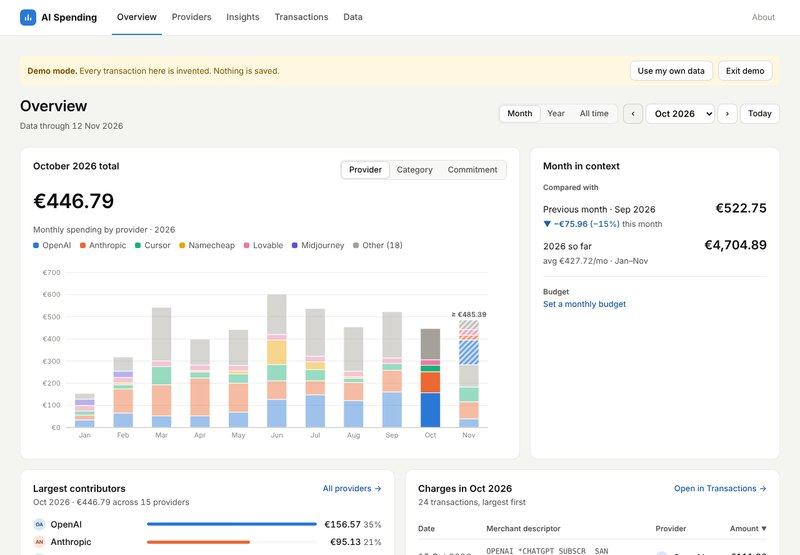
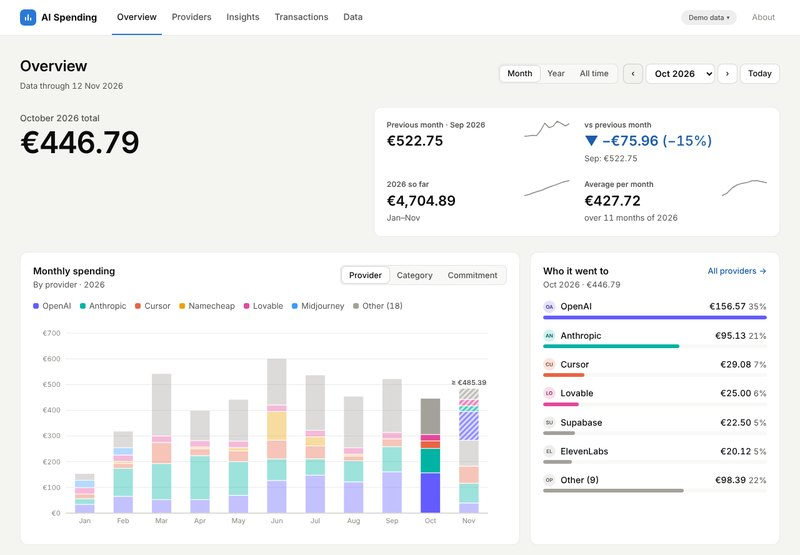
Screenshots, README and changelog for the new Overview and palette
Every README screenshot and the Welcome page screenshots (light and dark)
are regenerated.

Claude-Session: https://claude.ai/code/session_01Qfp4rLyXRfcCbxc21jCuL9

diff --git a/README.md b/README.md
@@ -43,7 +43,7 @@ npm run licenses:check  # fail on a non-permissive dependency license or an out-
 
 | Page | What you get |
 |---|---|
-| **Overview** (how much) | Chart first. A header gives the period's total ("November so far", "October total", "2026 so far", "All time") and, for the month in progress, "at least €X by month end" below it; a Provider / Category / Commitment toggle sits beside it. The monthly chart (stacked by provider, category or commitment type: subscription / usage / one-time) fills the card: the selected month is solid and the others faded, and for the month in progress the charges still due are stacked on its bar as hatched segments in each series' colour, with a "≥ €X" label above. The y-axis ends just above the tallest bar, projection included. **Click a bar to pick that month**, exactly as the date selector does (from Year view it switches to Month view for that month). Beside the chart, plain rows: **Compared with** (previous month; against the same point in the previous month while the month is in progress; the year so far with its average per month; when either period holds one-time charges you confirmed, one short line gives the comparison without them), **Still due this month** (provider, amount and expected date, with the same hatch as the chart, and how it is estimated) and **Budget** (a link to set one, or a small bar of recorded plus still due against it). Below: largest contributors, and the period's charges, largest first (top 5, then **Show all**), with **Open in Transactions** to the same period pre-filtered. One date, "Data through" the newest charge, is used everywhere on the page. Switch between Month / Year / All time in the header; a Today button next to the arrows jumps to the current month or year (as far as the data reaches), and is disabled while it is already selected. |
+| **Overview** (how much) | Three rows. **Row 1** is the hero, on the page background: the period's total under its label ("November 2026 so far", "October 2026 total", "2026 so far", "All time") in a 48px figure, and for the month in progress "at least €X by month end" with a hatched swatch and an Estimate pill; **Still due (N)** opens the recurring charges that estimate adds (provider, amount, expected date) and how it is worked out. Beside it, one card of four stat tiles that follow the period picker: *Month*: previous month, vs the same point in the previous month (a past month: vs the previous month), the year so far, average per month; *Year*: previous year, vs the same months of the previous year, average per month, highest month; *All time*: average per month, highest month, charges, providers. When either period holds one-time charges you confirmed, one short line gives the comparison without them. Sparklines show the last 12 monthly totals where that means something; the comparison tile has none. **Row 2**: the monthly chart (two thirds; stacked by provider, category or commitment type: subscription / usage / one-time, with a toggle top right) with the selected month solid and the others faded to about 38%, the month in progress topped by hatched segments for the charges still due and a "≥ €X" label, and **Who it went to** (one third): the top six providers for the period with avatar, amount, share and a bar, then the rest as Other. **Click a bar to pick that month**, exactly as the date selector does (from Year view it switches to Month view for that month). **Row 3**: the period's charges, largest first (top 5, then **Show all**, with **Open in Transactions** to the same period pre-filtered), and the **Budget** card (one line and a button to set one, or a bar of recorded plus still due against it). "Data through" the newest charge is the one date used everywhere on the page. Switch between Month / Year / All time in the header; a Today button next to the arrows jumps to the current month or year (as far as the data reaches), and is disabled while it is already selected. On a phone the order is the hero, Still due, the tiles (two columns), the chart, Who it went to, the charges and the budget. |
 | **Providers** (who) | All providers with all-time total, spending in the selected period, a **trend arrow** (the last 3 complete months against the 3 before, one-time charges left out; an arrow only when the change is more than 5% and more than €5, otherwise flat), share, transaction count, and first / most recent charge. Search, sort any column, and filter by category and commitment type. Click a provider for its detail page, laid out like the Overview: a chart card (that provider's months for the selected year, following the period picker; click a bar to pick that month; the charges still due stack on the current month, and the axis starts at the provider's first charge) beside an **At a glance** card (all-time total with rank and share, charges, typical charge, last charge, and the provider's settings: a tag for new charges and a category). Below, its **charge types** (the one place to say what each is): a row shows the label or statement description, what it is read as, charges, total, last charge and status pills ("App's guess" until you confirm it; price change, overlap, stopped); open a row to change its label or type and to see its schedule, next charge, price history, overlap and whether anything still charges. Charge types with the same label are one plan. Then its full transaction history. A "To review" column shows how many charge types you have not confirmed yet. |
 | **Transactions** | Searchable, sortable table with original merchant descriptors and amounts. Filter by provider and date range (or "Use selected period"). Filters live in the URL, so provider pages and the overview link straight into a filtered view. Click a row to jump to its provider. Each charge can carry a tag (Personal, Business, a client), singly or for everything shown at once, and a charge imported by mistake can be deleted (with a confirmation). The type of a charge is shown but not changed here: it links to the provider page. |
 | **Insights** | What the data says, in four groups. **Patterns**: monthly spending with a 3-month average, subscription, usage and one-time over time ("more tools or more usage?"), and recurring-looking patterns. **Shifts**: price changes ("went from €22.49 to €109.38 in Jun") and stopped subscriptions with a check that nothing still charges. **Suggestions**: overlapping tools ("2 chat assistants · €130/month combined") and what ending each would save. **Comparisons**: year-over-year by calendar month, yearly totals with like-for-like comparison, biggest increases and decreases by provider (last 3 months vs the 3 before, or year to date vs last year), and provider concentration. Anything the app worked out is marked **App's read**, with the reasoning behind a "How are these found?" toggle. See [Insights](#insights). |
@@ -51,7 +51,7 @@ npm run licenses:check  # fail on a non-permissive dependency license or an out-
 
 **The ledger is fact, everything else is inference.** Amounts, dates and providers are shown plainly. Anything the app worked out (a subscription, a next charge, a stopped one, an estimate, a charge's type) is marked as the app's read or an estimate, and the reasoning is one click away.
 
-Works on desktop and mobile, in light and dark mode. A top bar carries the five pages and **About** (the Welcome page); on a phone the five pages are a bottom tab bar. Every page is built from the same few components (card, stat tile, pill, provider avatar, table, button, input, segmented control) in `src/components/ui.tsx`, with the colours, type sizes and spacing in `src/tokens.css`. Provider colours are assigned once by all-time spend and stay the same across every chart; the 6 largest providers get their own colour and the rest share a grey "Other".
+Works on desktop and mobile, in light and dark mode. A top bar carries the five pages and **About** (the Welcome page); on a phone the five pages are a bottom tab bar. Every page is built from the same few components (card, stat tile, pill, provider avatar, table, button, input, segmented control) in `src/components/ui.tsx`, with the colours, type sizes and spacing in `src/tokens.css`. Provider colours are assigned once by all-time spend and stay the same across every chart; the 6 largest providers get their own colour (indigo, teal, orange, amber, pink, blue) and the rest share a grey "Other". Categories use the same hues (Domains is a deep pink), and the commitment types are Subscription indigo, Usage teal and One-time amber. The palette is validated for lightness, chroma, colour-blind separation and contrast in light and dark mode; the notes are in `src/lib/colors.ts`.
 
 ## Statement extractor
 
@@ -118,7 +118,7 @@ Export writes the same 4-column format with CRLF line endings (plus `Type` and `
 
 ## Current-month estimate
 
-Shown on the Overview when the selected month is the one in progress: "at least €X by month end" under the header, the still-due charges stacked on the month's bar, and the **Still due this month** rows beside the chart. A closed month, a year and All time show no projection. It is deliberately conservative: a floor for the month, not a forecast.
+Shown on the Overview when the selected month is the one in progress: "at least €X by month end" in the hero, the still-due charges stacked on the month's bar, and the **Still due (N)** list under the hero. A closed month, a year and All time show no projection. It is deliberately conservative: a floor for the month, not a forecast.
 
 1. **Recorded so far**: everything dated in the current month, exactly as recorded.
 2. **Still to come**: only recurring charges with strong evidence that are due later this month. Strong evidence is a subscription you **confirmed** on its provider's page, or one the pattern rule found (the same provider on a similar day and amount for 3+ months in a row) whose latest charge was in the **previous month**. A new price seen only once or twice does not count. Each counts at its charge type's **last actual charge**, never an average. "Later" is counted from the **latest recorded charge**, not from today: a charge due after the data ends has not been seen yet (even if its usual day has passed), while one due before the data ends that never arrived is not coming. The header says "Data through" with that date (the same date the whole Overview uses), and when the data is more than 7 days old a quiet line beside the chart links to Data.
@@ -195,9 +195,9 @@ PDF and Excel files are git-ignored anywhere in the repo as a second safety net.
 
 ## Demo mode
 
-**Explore demo data** runs the app on invented data, generated in the browser each time with today as the last day, so the month-end estimate always works. Demo data lives only in memory: it is never written to IndexedDB, and a banner says so on every page. Reloading keeps you in the demo (a single flag in `localStorage`).
+**Explore demo data** runs the app on invented data, generated in the browser each time with today as the last day, so the month-end estimate always works. Demo data lives only in memory: it is never written to IndexedDB, and a small "Demo data" pill in the top bar says so on every page. Reloading keeps you in the demo (a single flag in `localStorage`).
 
-When a visitor imports their own CSV (from the banner's **Use my own data** or the Data page), duplicates are checked against stored data only, the demo is discarded, and only their rows are saved. Demo and real data never mix. **Exit demo** returns to the welcome screen. The demo also works when browser storage is blocked (some private windows).
+When a visitor imports their own CSV (from the **Demo data** pill's **Use my own data** or the Data page), duplicates are checked against stored data only, the demo is discarded, and only their rows are saved. Demo and real data never mix. **Exit demo** (in the same menu) returns to the Welcome page. The demo also works when browser storage is blocked (some private windows).
 
 ## Hosting your own copy
 

diff --git a/CHANGELOG.md b/CHANGELOG.md
@@ -5,6 +5,10 @@ All notable changes to this project are listed here. The format follows [Keep a 
 ## [Unreleased]
 
 ### Changed
+- Overview layout and visual refresh. Row 1 is a hero on the page background (the period total at 48px; for the month in progress "at least €X by month end" with **Still due (N)**) beside one card of four stat tiles with sparklines, which follow Month, Year and All time. Row 2 is the monthly chart and **Who it went to** (top six providers plus Other). Row 3 is the period's charges and the **Budget** card. The "Month in context" card is gone.
+- New palette: indigo, teal, orange, amber, pink and blue for providers, a grey Other, the same hues for categories (Domains is a deep pink so no two neighbours clash) and indigo, teal and amber for Subscription, Usage and One-time. Validated in light and dark; orange and amber were moved in lightness where the validator required it. Bars of periods that are not selected fade to 38%.
+- Type scale: hero 48px, stat tile values 22px. Sections inside a card are separated by 24px of space, not divider lines (tables and lists keep theirs).
+- Demo mode is a small "Demo data" pill in the top bar with a menu (Use my own data, Exit demo), replacing the yellow banner.
 - Shared UI standards and a new shell. Design tokens live in one file (`src/tokens.css`) used by the app and the static pages: four text colours, an 8/12/16/24/32 spacing scale, no red or green for spending (an exceeded budget is amber). New shared components: `Button` (primary, secondary, text, danger), `Input`, `Select`, `Field`, `Table`, `Descriptor` (monospace statement text), `StatTile` with an optional sparkline, `ProviderAvatar` (initials on the provider colour) and `ChangeArrow`. Every page uses them. Provider pages no longer show the review line; the Providers list calls its pill "N to check".
 - Navigation is a top bar (logo, Overview, Providers, Insights, Transactions, Data, and About on the right). On a phone the five pages are a bottom tab bar. The old rail footer (transactions, total recorded, data through, where data is stored) is a row of tiles on the Data page; the Overview header says "Data through <date>". "Data through <date>" replaces "Last import" and "As of last import" everywhere: the date is the newest charge, not when a file was imported.
 - Provider avatars are a light tint of the provider colour with initials in a dark shade of the same hue (light and dark in dark mode), like the pills. Every colour in the palette, grey included, keeps at least 6:1 contrast, and a test checks 4.5:1.
